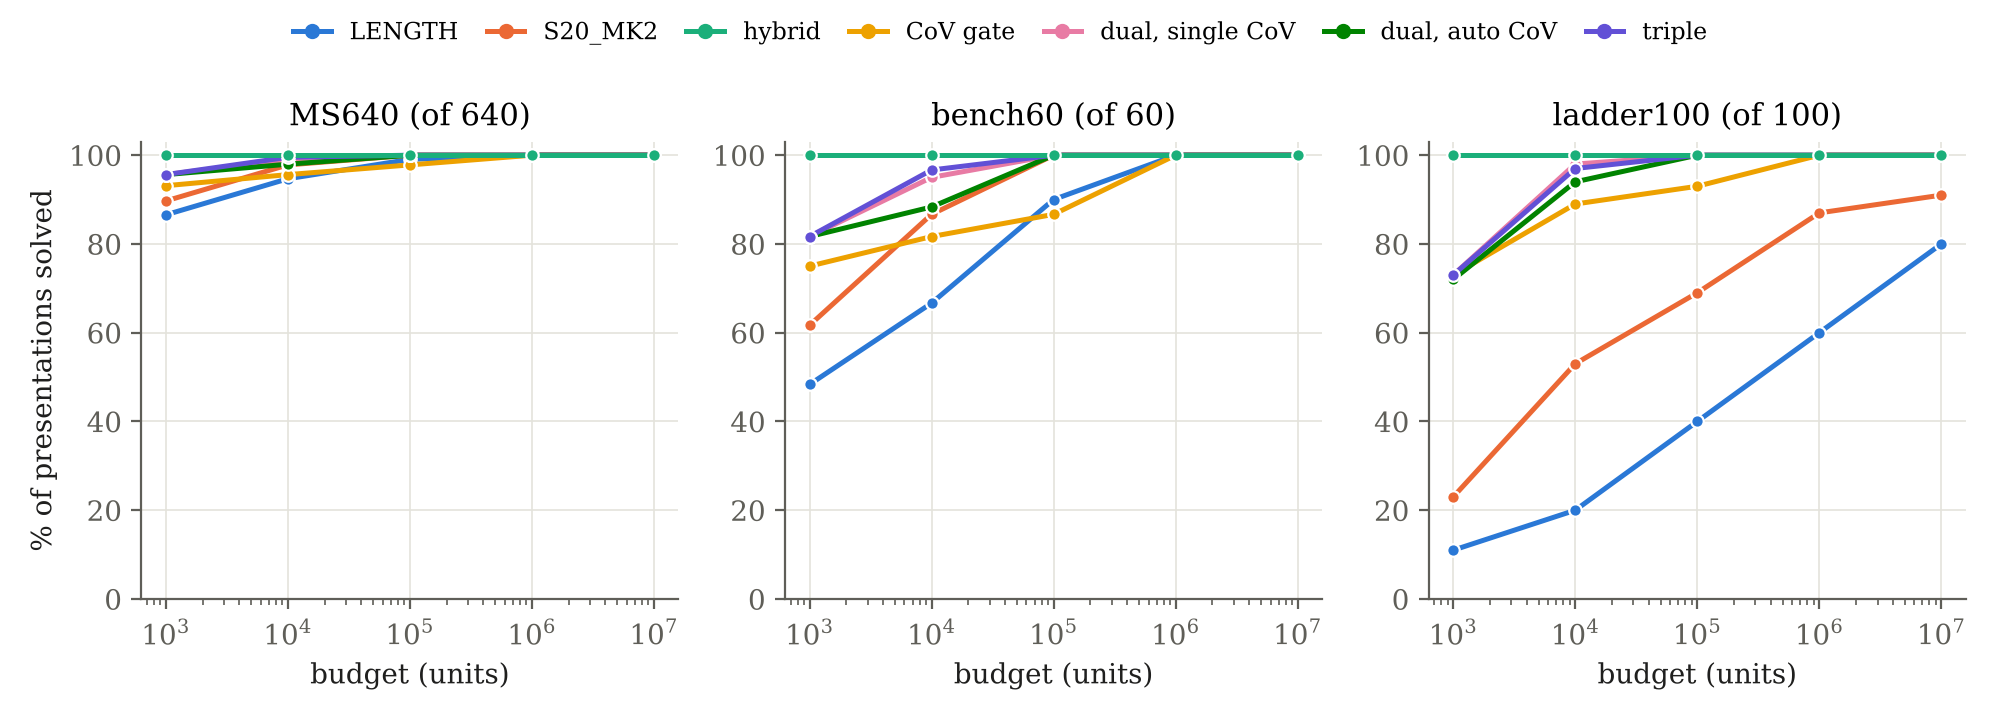
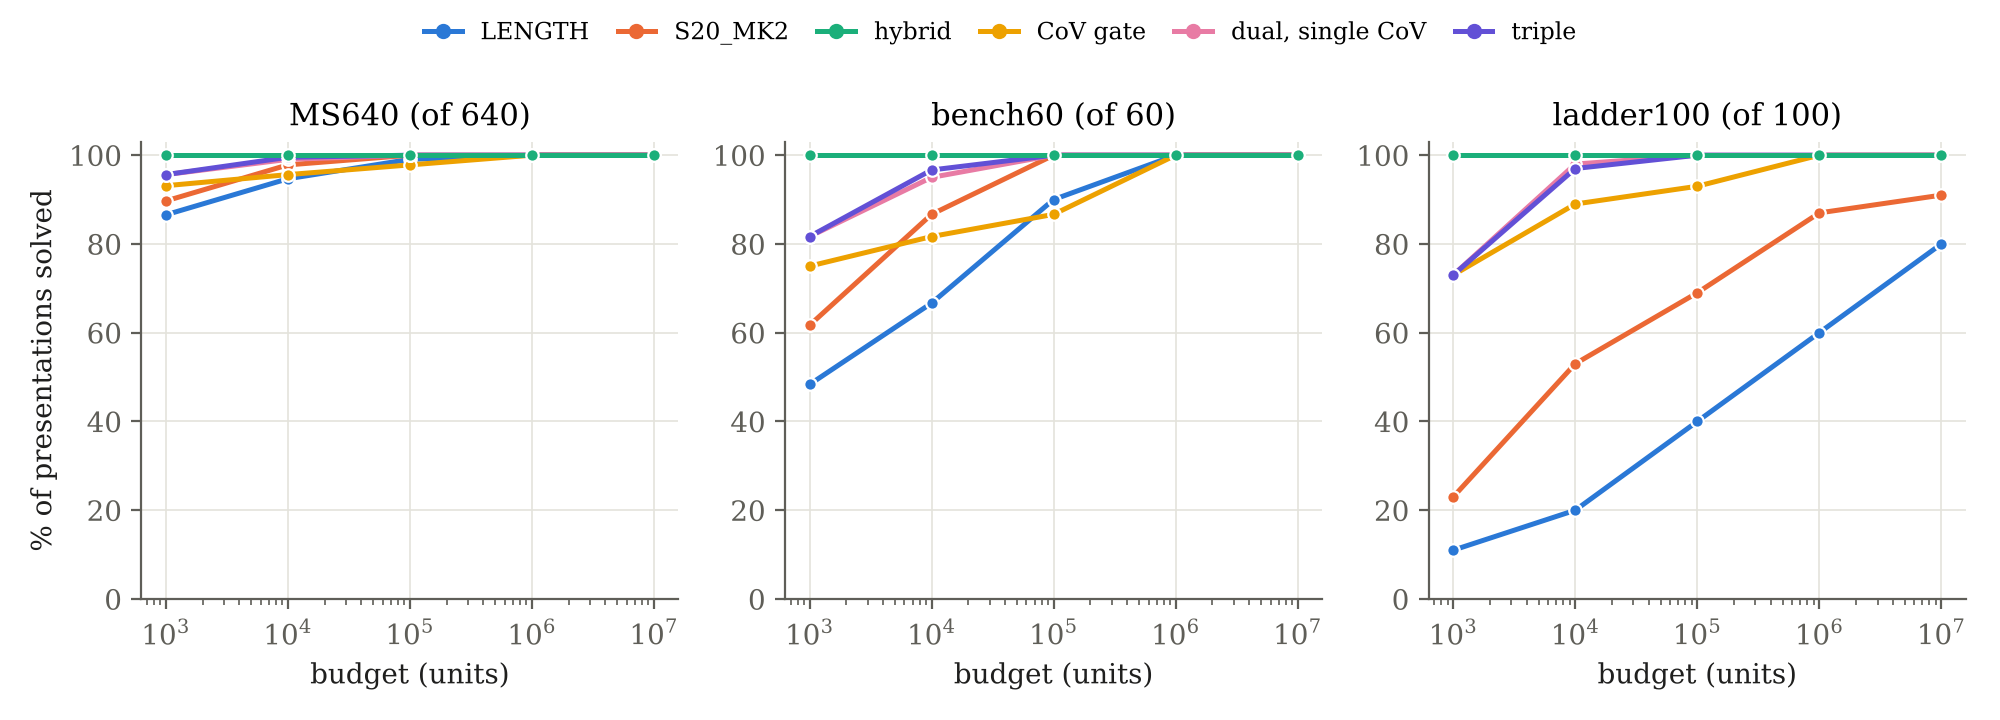
paper: drop the units_paths figure from Section 1; scores_budget leaves out dual, auto CoV
Claude-Session: https://claude.ai/code/session_01AdAbRuZRQ5MkX3g2nL8FXv

diff --git a/paper/figsrc/table_figs.py b/paper/figsrc/table_figs.py
@@ -37,10 +37,12 @@ def style(ax):
 
 
 def scores_budget(B):
+    # dual, auto CoV is left out: it never solves more than dual, single CoV (Table 3)
+    SHOWN = [m for m in METHODS if m != "dual, auto CoV"]
     budgets = [10 ** k for k in range(3, 8)]
     fig, axes = plt.subplots(1, 3, figsize=(10, 3.6))
     for ax, (name, rows) in zip(axes, B.items()):
-        for m in METHODS:
+        for m in SHOWN:
             ys = [100 * sum(1 for r in rows if r["methods"][m]["solved"] and r["methods"][m]["units"] <= b) / len(rows)
                   for b in budgets]
             ax.plot(budgets, ys, color=COLORS[m], lw=1.8, marker="o", markersize=4.5,
@@ -52,8 +54,8 @@ def scores_budget(B):
         ax.set_ylim(0, 103)
         style(ax)
     axes[0].set_ylabel("% of presentations solved")
-    fig.legend([Line2D([], [], color=COLORS[m], lw=1.8, marker="o", markersize=4.5) for m in METHODS], METHODS,
-               loc="upper center", ncol=7, frameon=False, fontsize=8.5, handlelength=1.6, columnspacing=1.2)
+    fig.legend([Line2D([], [], color=COLORS[m], lw=1.8, marker="o", markersize=4.5) for m in SHOWN], SHOWN,
+               loc="upper center", ncol=6, frameon=False, fontsize=8.5, handlelength=1.6, columnspacing=1.2)
     fig.tight_layout(rect=(0, 0, 1, 0.9))
     fig.savefig(OUT / "scores_budget.png", dpi=200)
 

diff --git a/paper/avi.tex b/paper/avi.tex
@@ -249,10 +249,6 @@ ladder100 at $10^4$; its hardest row, \texttt{ac19\_70845}, takes $2{,}267$ unit
 S-moves. For the hybrid, each S-move and each Nielsen map counts as one unit; its path length is then rewritten as a sequence of AC moves on the original presentation and verified there.
  
 \begin{center}
-\includegraphics[width=\textwidth]{figures/units_paths.png}
-\end{center}
- 
-\begin{center}
 \small
 \begin{tabular}{llrrrrrr}
 \toprule
@@ -537,7 +533,8 @@ every presentation. In each benchmark, the largest number in each column is in b
 \centering
 \includegraphics[width=\textwidth]{figures/scores_budget.png}
 \caption{The numbers of Table~\ref{tab:cov_search_solved} as a percentage of each benchmark: presentations solved
-against the budget in units.}
+against the budget in units. The dual, auto CoV search, which never solves more than the dual, single CoV search, is
+omitted.}
 \label{fig:scores_budget}
 \end{figure}
 
